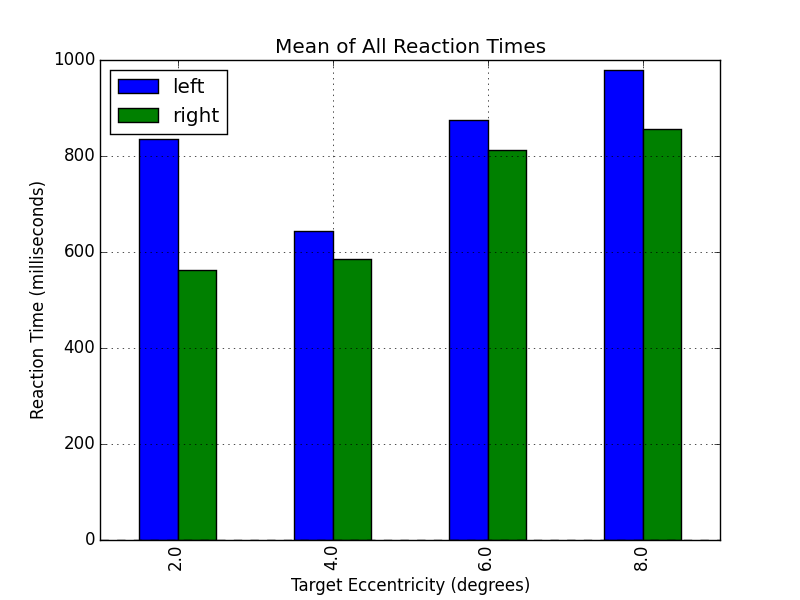
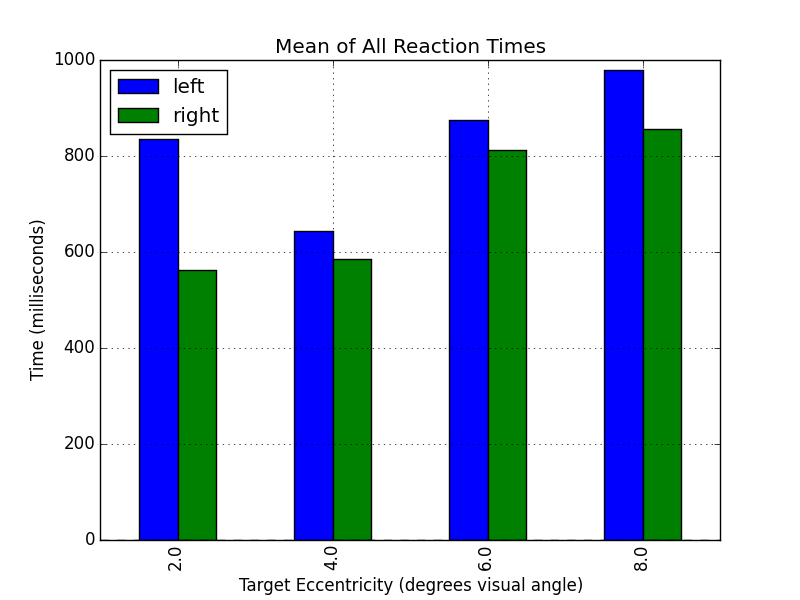
WIP

Changed region(s): [[0.2812, 0.96, 0.7188, 0.99], [0.0312, 0.3, 0.0625, 0.72]]

diff --git a/problem_set3/problem_set3.py b/problem_set3/problem_set3.py
@@ -107,8 +107,8 @@ def plot_rts(df):
 
     # And add plot details (title, legend, xlabel, and ylabel)
     plt.title('Mean of All Reaction Times')
-    plt.xlabel('Target Eccentricity (degrees)')
-    plt.ylabel('Reaction Time (milliseconds)')
+    plt.xlabel('Target Eccentricity (degrees visual angle)')
+    plt.ylabel('Time (milliseconds)')
     plt.legend(loc=0) # 0 - best, 4- lower right
 
 ##
@@ -131,43 +131,31 @@ def get_ems(df, trial):
     ####  to get the time the stimulus appeared on trial 14, you would write:
     ####    df['stimon'][14]
 
-    # t = *** YOUR CODE HERE ***
-    
-    #data = df['response'][trial] <= df[['em_time']][trial] <= df['response'][trial]
-    
-    #df[['em_time']].where(df['em_time'] < df['stimon'])
-    
-    
-    # 
-    #trial = 4
-    #df.loc[trial, 'em_time']
-    
-    # get data for trial (row)
-    #df2 = df.loc[trial, :]
-    
     # find times of interest for trial
+    #   'stimon' - when stimulus appeared 
+    #   'response' - when subject responded
     startTime = df.loc[trial, 'stimon']
-    endTime = df.loc[trial, 'response']
-    
+    endTime = df.loc[trial, 'response']  
  
     # extract times
     times = df['em_time'][trial]
     
-    # find index    
+    # find index of 'stimon' - when stimulus appeared  
     indexStart = 0
     for i in range(0, len(times)):
         if times[i] < startTime:
             indexStart = indexStart +1
     print indexStart
 
-    # find index
+    # find index of 'response' - when subject responded
     indexEnd = 0
     for i in range(0, len(times)):
         if times[i] < endTime:
             indexEnd = indexEnd +1
     print indexEnd
     
-    # extract data
+    # extract data 
+    # based on start and end indices
     t = times[indexStart:indexEnd]
     print len(t)
     
@@ -178,33 +166,6 @@ def get_ems(df, trial):
     vert = df['em_vert'][trial]
     v = vert[indexStart:indexEnd]
     print len(v)
-
-#    # find index of start time
-#    times = int(times)
-#    times.index(startTime)
-#    
-#    itemindex = numpy.where(times==startTime)
-#    
-#    
-#    df2.ix[startTime:endTime]  
-    
-    #trialData.where(trialData['em_time'] < endTime)
-    #trialData.query(trialData['em_time'] < endTime)
-    #trialData.index.name = 
-#    trialData.query('em_time < endTime')
-#    
-#    
-#    df2.ix[:date2]    
-#    
-#    trialData[:5]
-#    
-#    t = trialData[['em_time']]
-#    
-#    
-#    trialData[[1,'em_time']]
-
-    # h = *** YOUR CODE HERE ***
-    # v = *** YOUR CODE HERE ***
 
     return t, h, v
 
@@ -227,7 +188,27 @@ def plot_ems_and_target(df, trial):
     plt.figure()
 
     # *** YOUR CODE HERE ***
+    plt.plot(t,h,'r',t,v,'g')   
+    # alternate way for multiple lines
+    #  plt.plot(t,h, c='r')
+    #  plt.plot(t,v, c='g', hold=True)
+    plt.axhline(y=df['targ_x'][trial], c='r')
+    plt.axhline(y=df['targ_y'][trial], c='g') 
+    plt.ylim(-10, 10)     
 
+    print 'targ_x = ' + str(df['targ_x'][trial])
+    print 'targ_y = ' + str(df['targ_y'][trial])
+    
+    plt.title('Eye Movements for Trial ' + str(trial))
+    plt.xlabel('Position (degrees visual angle)')
+    plt.ylabel('Time (milliseconds)')
+     
+    #plt.legend()  
+    # legend not working!  use more kluginess
+    import matplotlib.lines as mlines
+    h_legend = mlines.Line2D([], [], color='red', label='Horizontal')
+    v_legend = mlines.Line2D([], [], color='green', label='Vertical')
+    plt.legend(handles=[h_legend, v_legend], loc=0)     
     plt.show()
     
 
@@ -249,13 +230,20 @@ def get_rate(spk_times, start, stop):
     # Remember that rate should be in the units spikes/sec
     # but start and stop are in msec (.001 sec)
 
-    # rate = 
+    # Use this to extract spike times series for trial
+    #
+    # spikeTimes = df['spk_times'][trial]
+    
+    spikes = np.count_nonzero((spk_times > start) & (spk_times <= stop))
+    tInterval = stop - start 
+    rate = (spikes / (tInterval * 1.0)) * 1000
 
     return rate
 
 
 ##
-## This function should not need to be edited
+## This function should
+ not need to be edited
 ##
 def add_aligned_rates(df, alignto, start, stop):
     """Use the get_rate() function to add rates to a DataFrame where the
@@ -339,3 +327,5 @@ if __name__ == "__main__":
     add_info(df)
     rts_by_targ_ecc(df)
     plot_rts(df)
+    trial = 213
+    plot_ems_and_target(df, trial)
